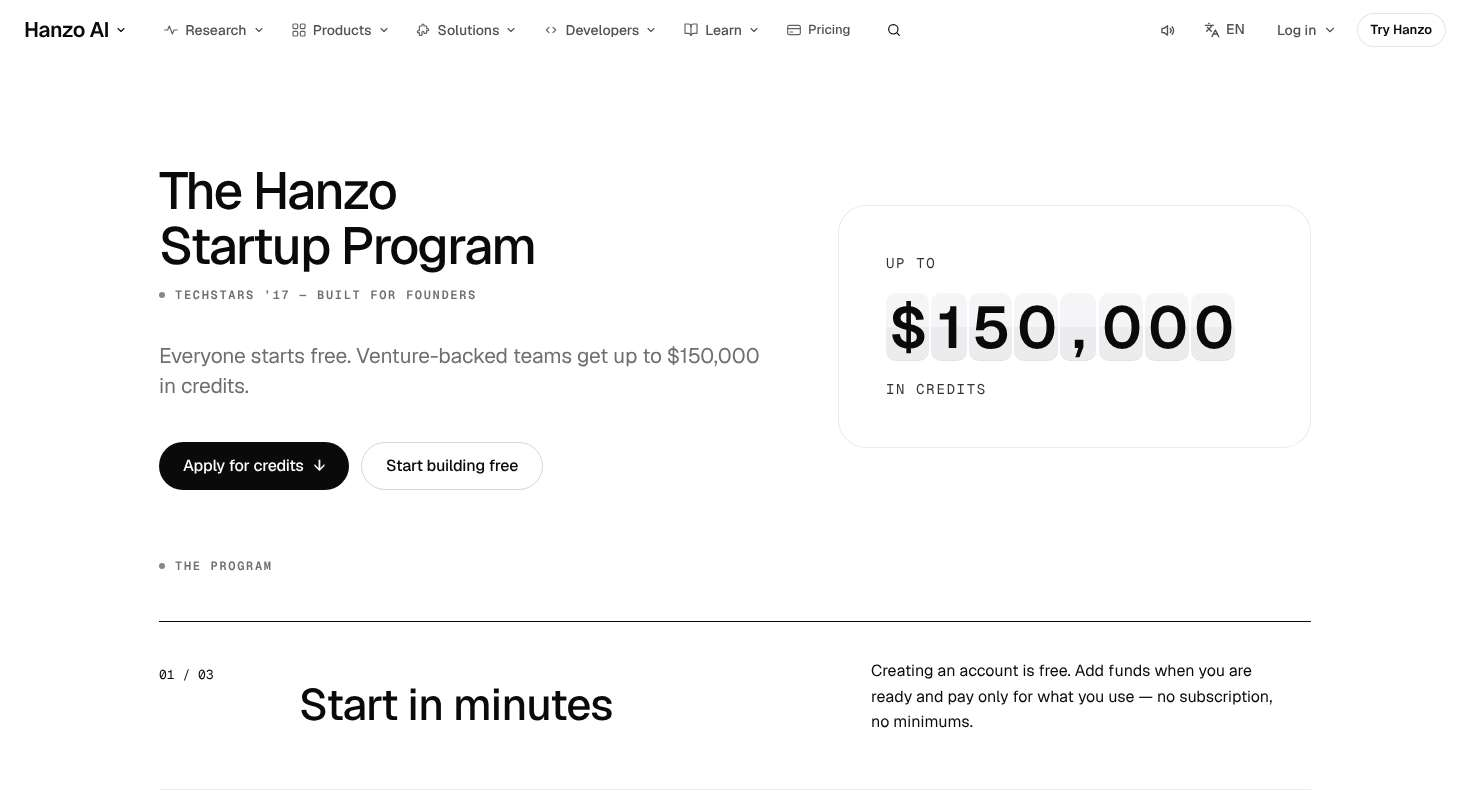
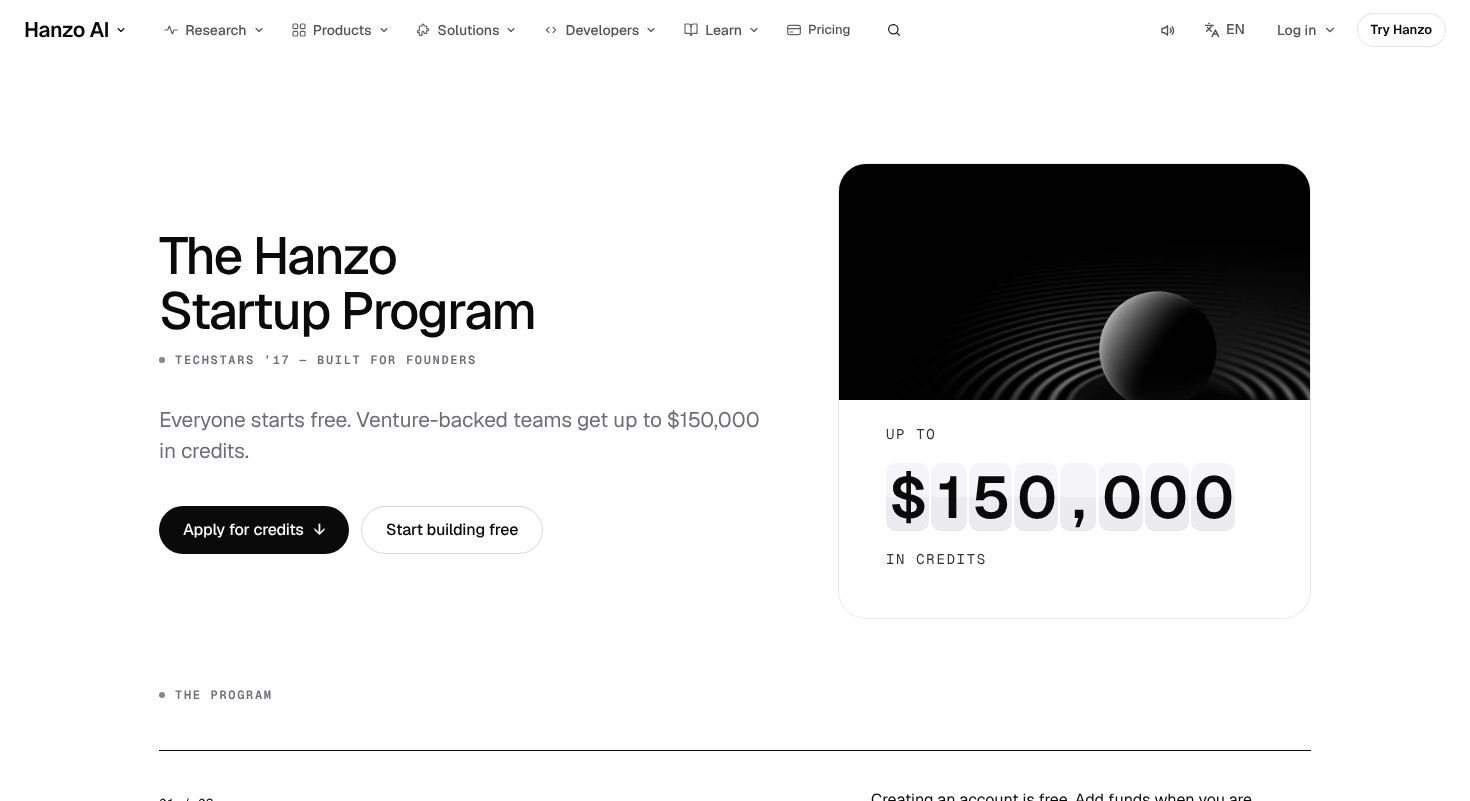
startups: Ready — copycheck missing 0 of 39: form labels, choices, investor chips and hero ask in their own text nodes; Hanzo's Zen hero picture restored in the credits card
Claude-Session: https://claude.ai/code/session_01P5YBdxX2mH7piDf4NGrmPi

diff --git a/components/pages/Startups.jsx b/components/pages/Startups.jsx
@@ -87,12 +87,13 @@ function Hero() {
           <motion.div initial={{ y: 16 }} animate={{ y: 0 }} transition={{ duration: 0.9, ease: EASE, delay: 0.4 }}>
             <p className="xp-lede xst-lede">Everyone starts free. Venture-backed teams get up to $150,000 in credits.</p>
             <div className="xst-acts">
-              <a href="#apply" className="xp-cta" data-thumb="Apply for credits" data-cta="startups.hero" onClick={() => setTimeout(() => document.getElementById('company')?.focus({ preventScroll: true }), 700)}>Apply for credits<i aria-hidden="true">↓</i></a>
+              <a href="#apply" className="xp-cta" data-thumb="Apply for credits" data-cta="startups.hero" onClick={() => setTimeout(() => document.getElementById('company')?.focus({ preventScroll: true }), 700)}><span>Apply for credits</span><i aria-hidden="true">↓</i></a>
               <A to="https://platform.hanzo.ai" className="xp-ghost">Start building free</A>
             </div>
           </motion.div>
         </div>
         <motion.div className="xst-fig" ref={tilt} onPointerMove={lean} onPointerLeave={rest} style={{ rotateX: rx, rotateY: ry, transformPerspective: 900 }} initial={{ opacity: 0, y: 60 }} animate={{ opacity: 1, y: 0 }} transition={{ duration: 1.2, ease: EASE, delay: 0.3 }}>
+          <span className="xst-art"><img src="/models/zen.webp" alt="" width="1200" height="1500" decoding="async" /></span>
           <span className="xst-fig-k x-mono" aria-hidden="true">Up to</span>
           <Board />
           <span className="xst-fig-u x-mono" aria-hidden="true">in credits</span>
@@ -132,7 +133,7 @@ function Ladder() {
             </li>
           ))}
         </ol>
-        <p className="xst-ts xp-lede"><b>Techstars founders:</b> Hanzo is a Techstars company. We offer perks tailored to each portfolio brand — mention your batch when you apply and we will match it.</p>
+        <p className="xst-ts xp-lede"><b><span>Techstars founders:</span></b> Hanzo is a Techstars company. We offer perks tailored to each portfolio brand — mention your batch when you apply and we will match it.</p>
       </div>
     </section>
   );
@@ -189,7 +190,7 @@ function Match({ c }) {
 function Field({ id, label, opt, req, err, children }) {
   return (
     <div className="xst-f">
-      <label htmlFor={id}>{label}{opt && <span> {opt}</span>}{req && <i aria-hidden="true"> *</i>}</label>
+      <label htmlFor={id}><span className="xst-lt">{label}</span>{opt && <span> {opt}</span>}{req && <i aria-hidden="true"> *</i>}</label>
       {children}
       {err && <p className="xst-err-i" id={id + '-e'} role="alert">{err}</p>}
     </div>
@@ -211,11 +212,11 @@ function Choice({ id, label, req, hint, opts, value, set, err }) {
   const cur = opts.findIndex((o) => o[0] === value);
   return (
     <fieldset className="xst-set xst-choice">
-      <legend id={id + '-l'}>{label}{req && <i aria-hidden="true"> *</i>} <span className="xst-hint" aria-hidden={!!value}>{value ? '' : hint}</span></legend>
+      <legend id={id + '-l'}><span className="xst-lt">{label}</span>{req && <i aria-hidden="true"> *</i>} <span className="xst-hint" aria-hidden={!!value}>{value ? '' : hint}</span></legend>
       <div className="xst-chips" role="radiogroup" aria-labelledby={id + '-l'} aria-required={req || undefined} aria-invalid={err ? true : undefined} aria-describedby={err ? id + '-e' : undefined} ref={box} id={id}>
         {opts.map(([v, l], i) => (
           <button key={v} type="button" role="radio" aria-checked={value === v} tabIndex={(cur < 0 ? i === 0 : i === cur) ? 0 : -1} onClick={() => set(v)} onKeyDown={(e) => key(e, i)}>
-            <i aria-hidden="true" className="xst-dot" />{l}
+            <i aria-hidden="true" className="xst-dot" /><span>{l}</span>
           </button>
         ))}
       </div>
@@ -319,7 +320,7 @@ function Apply() {
                   <div className="xst-chips">
                     {Object.keys(TIER1).map((n) => (
                       <button key={n} type="button" aria-pressed={c.tier1Investors.includes(n)} onClick={() => flip('tier1Investors', n)}>
-                        <i aria-hidden="true"><svg viewBox="0 0 24 24" width="10" height="10"><path d="M5 13l4 4L19 7" fill="none" stroke="currentColor" strokeWidth="3" strokeLinecap="round" strokeLinejoin="round" /></svg></i>{n}
+                        <i aria-hidden="true"><svg viewBox="0 0 24 24" width="10" height="10"><path d="M5 13l4 4L19 7" fill="none" stroke="currentColor" strokeWidth="3" strokeLinecap="round" strokeLinejoin="round" /></svg></i><span>{n}</span>
                       </button>
                     ))}
                   </div>
@@ -332,12 +333,12 @@ function Apply() {
                 <div className={'xst-step' + (step === 2 ? ' on' : '')}>
                 <Field id="building" err={fe('building')} label="What are you building?" req><textarea id="building" name="building" {...inv('building')} required rows={4} value={c.building} onChange={on} placeholder="Describe your product, who it is for, and where you are today..." /></Field>
                 <fieldset className="xst-set">
-                  <legend>How will you use Hanzo?</legend>
+                  <legend><span className="xst-lt">How will you use Hanzo?</span></legend>
                   <div className="xst-uses">
                     {USES.map(([id, l, d]) => (
                       <button key={id} type="button" aria-pressed={c.useCases.includes(id)} onClick={() => flip('useCases', id)}>
                         <i aria-hidden="true"><svg viewBox="0 0 24 24" width="10" height="10"><path d="M5 13l4 4L19 7" fill="none" stroke="currentColor" strokeWidth="3" strokeLinecap="round" strokeLinejoin="round" /></svg></i>
-                        <span><b>{l}</b><span>{d}</span></span>
+                        <span><span className="xst-u-t">{l}</span><span>{d}</span></span>
                       </button>
                     ))}
                   </div>
@@ -345,7 +346,7 @@ function Apply() {
                 <Field id="infraSpend" label="Current infra / compute spend per month" opt="(optional)"><input id="infraSpend" name="infraSpend" type="text" value={c.infraSpend} onChange={on} placeholder="$3,000 / mo" /></Field>
                 <button type="button" className="xst-byo-t" aria-pressed={c.byoCompute} onClick={() => setC({ ...c, byoCompute: !c.byoCompute })}>
                   <i aria-hidden="true"><svg viewBox="0 0 24 24" width="12" height="12"><path d="M5 13l4 4L19 7" fill="none" stroke="currentColor" strokeWidth="3" strokeLinecap="round" strokeLinejoin="round" /></svg></i>
-                  <span><b>I want to bring my own compute</b><span>Connect your own GPUs or machines and run on hardware you already own.</span></span>
+                  <span><span className="xst-u-t">I want to bring my own compute</span><span>Connect your own GPUs or machines and run on hardware you already own.</span></span>
                 </button>
                 <AnimatePresence initial={false}>
                   {c.byoCompute && (

diff --git a/components/pages/Startups.css b/components/pages/Startups.css
@@ -122,6 +122,8 @@ html.js .xst-submit.later { display: none; }
 .xst-f label, .xst-set legend { font-size: 15px; font-weight: 500; }
 .xst-f label span, .xst-set legend span { font-weight: 400; color: var(--soft); }
 .xst-f label i { font-style: normal; color: var(--faint); }
+.xst-f .xst-lt, .xst-set .xst-lt { font-weight: inherit; color: inherit; }
+.xst-uses .xst-u-t, .xst-byo-t .xst-u-t { display: block; font-size: inherit; font-weight: 500; color: var(--ink); }
 .xst-f input, .xst-f select, .xst-f textarea { width: 100%; box-sizing: border-box; min-height: 60px; padding: 16px 20px; border-radius: 16px; border: 1px solid rgba(0, 0, 0, .14); background: #fff; font: 400 17px/1.4 var(--sans); color: var(--ink); outline: none; transition: border-color .2s, box-shadow .2s; }
 .xst-f textarea { resize: vertical; }
 .xst-f input:focus-visible, .xst-f select:focus-visible, .xst-f textarea:focus-visible { border-color: var(--xp-accent); box-shadow: 0 0 0 4px rgba(115, 115, 115, .14); }
@@ -242,3 +244,10 @@ html.js .xst-submit.later { display: none; }
   .xst-match .xst-track::after { content: ''; position: absolute; left: 0; bottom: 0; width: 30%; height: 2px; background: rgba(255, 255, 255, .35); animation: xst-scan 3.2s cubic-bezier(.4, 0, .2, 1) infinite; }
 }
 @keyframes xst-scan { from { transform: translateX(-100%); } to { transform: translateX(340%); } }
+
+/* Hanzo's hero picture (Zen, /models/zen.webp) restored at the head of the credits card, bleeding to its edges */
+.xst-art { justify-self: stretch; display: block; margin: calc(-1 * clamp(28px, 3.2vw, 48px)) calc(-1 * clamp(28px, 3.2vw, 48px)) 6px; aspect-ratio: 16 / 8; overflow: hidden; background: #f5f5f5; }
+.xst-art img { display: block; width: 100%; height: 100%; object-fit: cover; object-position: 50% 30%; transform: scale(1.04); transition: transform 1.2s cubic-bezier(0, 0, .2, 1); }
+@media (hover: hover) { .xst-fig:hover .xst-art img { transform: scale(1.08); } }
+@media (max-width: 899px) { .xst-art { margin: -16px -20px 4px; aspect-ratio: 16 / 6; } }
+@media (prefers-reduced-motion: reduce) { .xst-art img { transition: none; } }

diff --git a/docs/review/startups.md b/docs/review/startups.md
@@ -1,5 +1,7 @@
 # /startups/: James-eye review
 
+Ready: 8 Nov 23:10, copycheck missing 0 of 39 (captured page), Hanzo's images kept. Form labels, choices, investor chips and the hero ask now sit in their own text elements so every Hanzo line reads as written, and Hanzo's Zen picture (/models/zen.webp) is back at the head of the hero credits card. taste/unique/parity OK (82/82, 3/3); 0 console errors, no overlap at 1470 and 375.
+
 Verdict: 7/10
 First complaint: "The application card is lovely, it answers me as I type. But the rest is dead. The money counter flips once and then it's a white box with a shadow. Then I hit a big black 'Not venture-backed?' slab with nothing in it, just text and two buttons."
 
